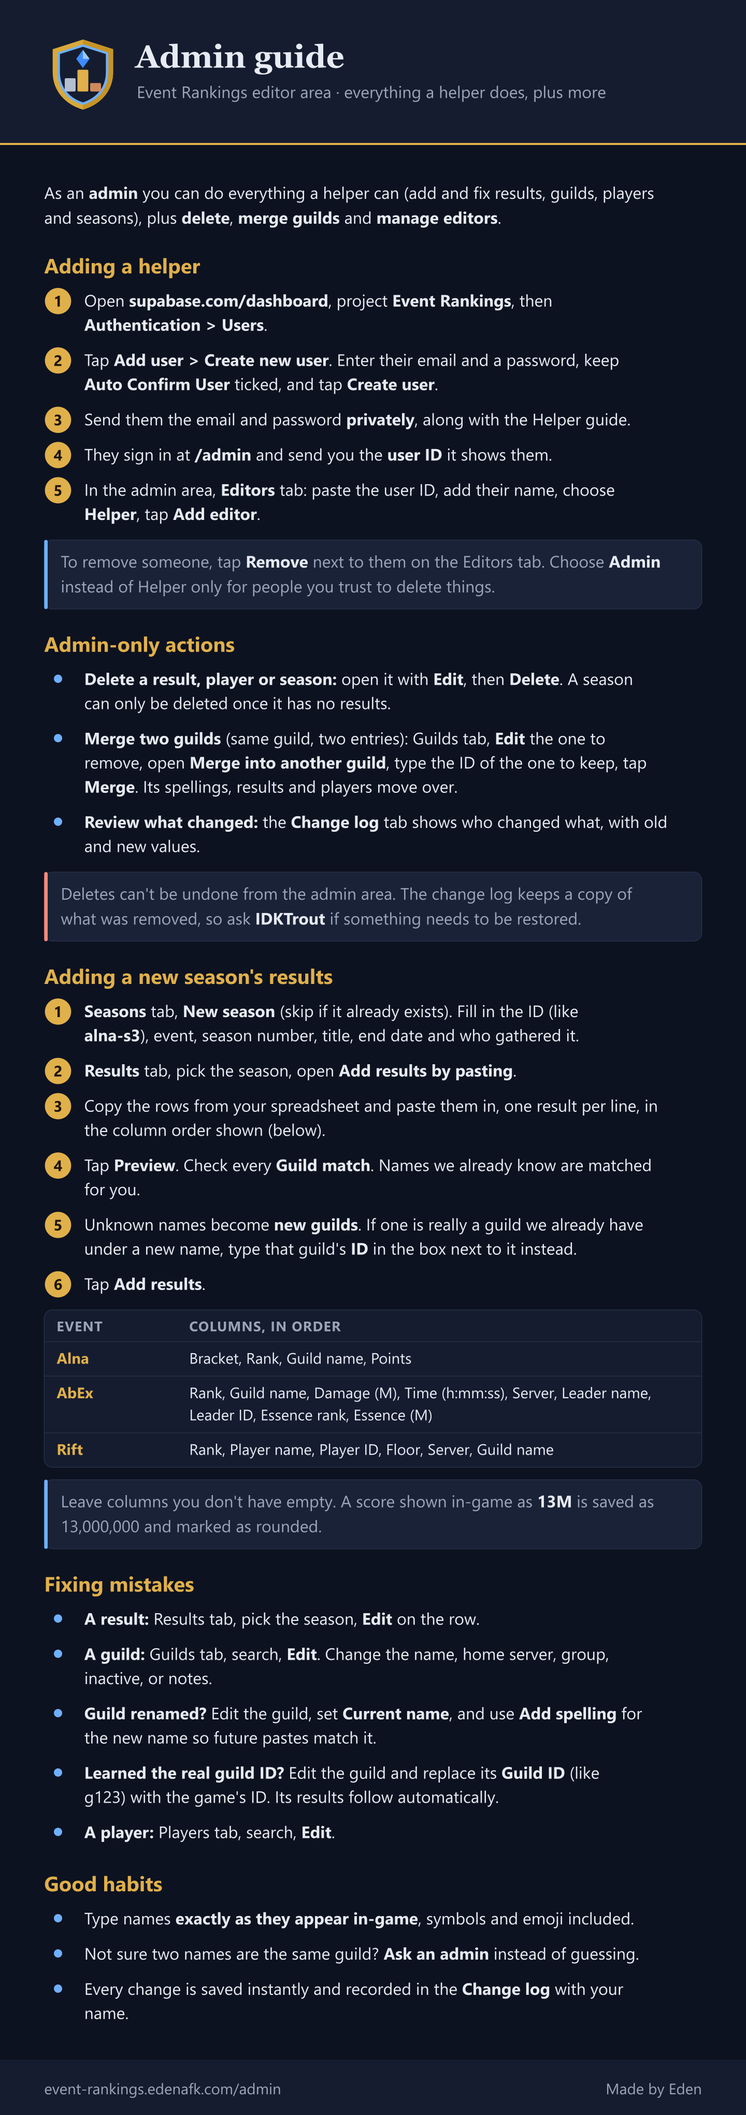
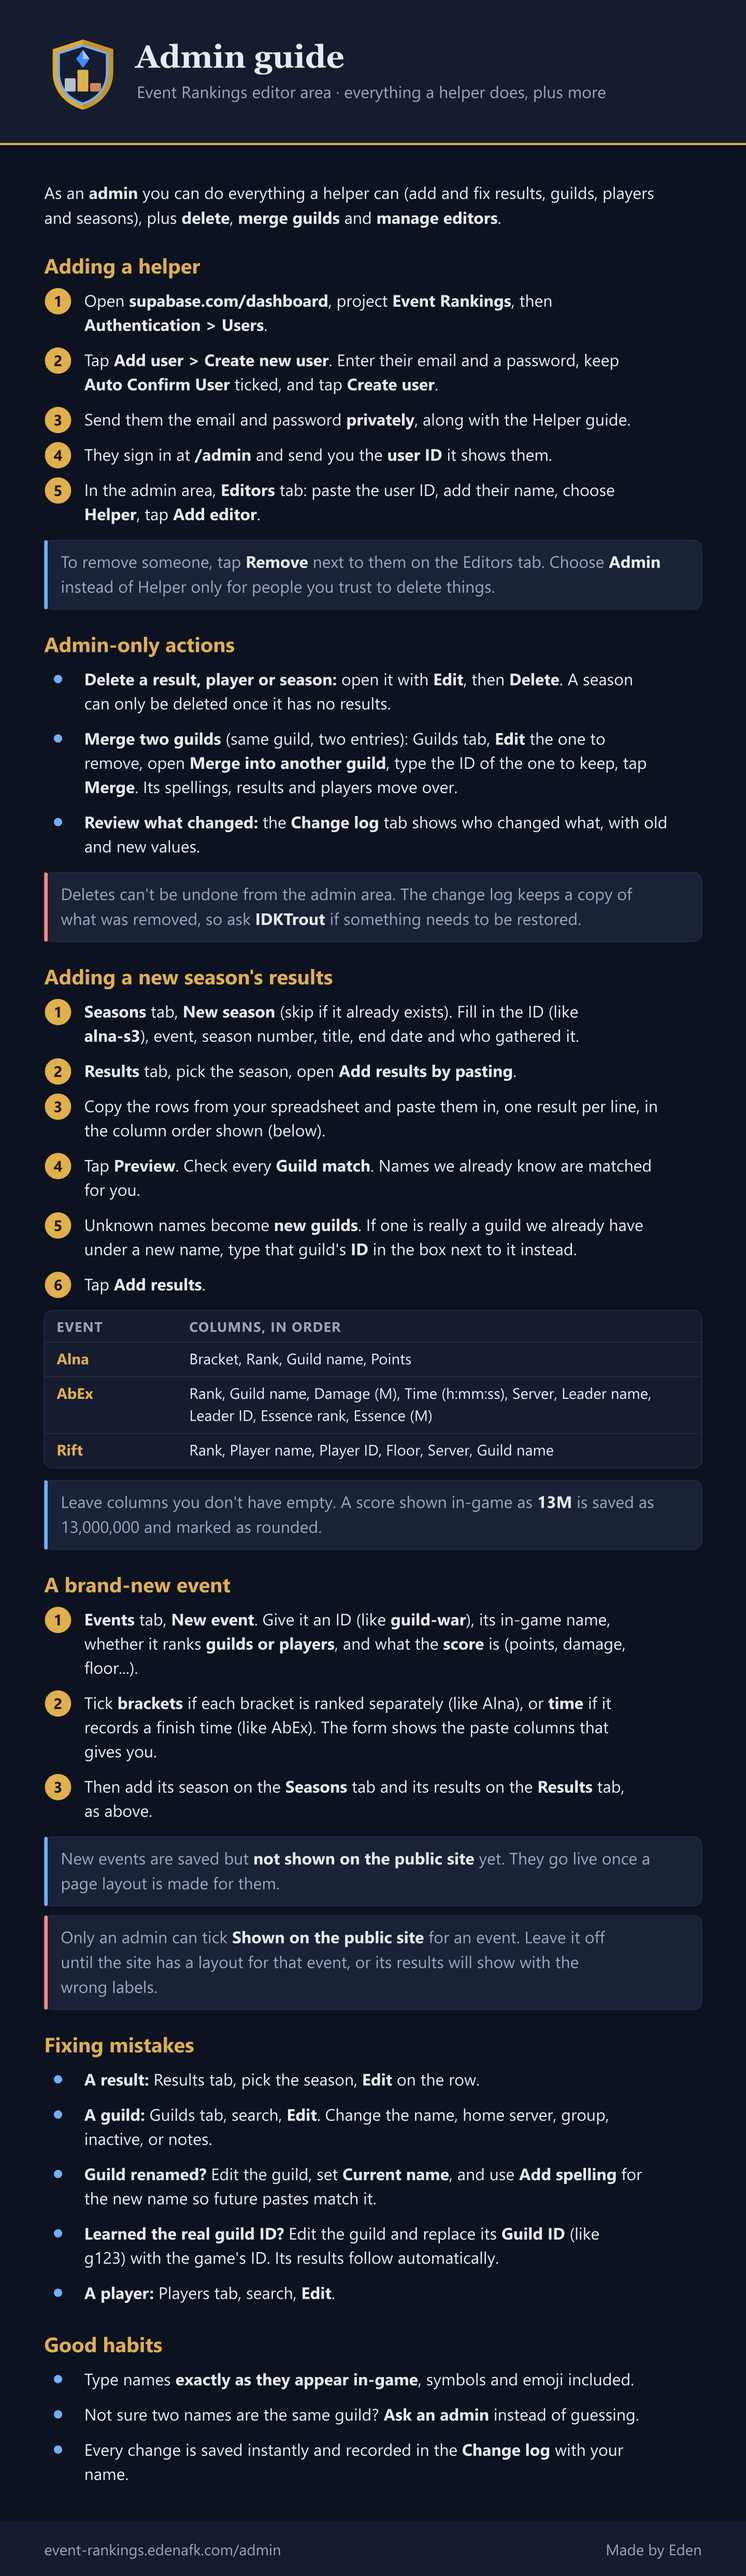
Add an Events tab to the admin; keep new events off the site until they have a layout

Changed region(s): [[0.0312, 0.0, 0.875, 0.964], [0.7188, 0.7463, 0.7812, 0.7774]]

diff --git a/src/admin/app.ts b/src/admin/app.ts
@@ -126,6 +126,7 @@ const TABS: Tab[] = [
   { id: 'guilds', label: 'Guilds', render: guildsTab },
   { id: 'players', label: 'Players', render: playersTab },
   { id: 'seasons', label: 'Seasons', render: seasonsTab },
+  { id: 'events', label: 'Events', render: eventsTab },
   { id: 'log', label: 'Change log', render: logTab },
   { id: 'editors', label: 'Editors', render: editorsTab, adminOnly: true },
 ];
@@ -514,7 +515,8 @@ function seasonsTab(panel: HTMLElement) {
 function editSeason(s: Season | null, redraw: () => void) {
   const nextOrder = Math.max(0, ...seasons.map((x) => x.sort_order)) + 1;
   const f = {
-    id: text(s?.id ?? '', { placeholder: 'like alna-s3' }), event: select(events.map((e) => [e.id, e.name]), s?.event_id ?? events[0]?.id ?? ''),
+    id: text(s?.id ?? '', { placeholder: 'like alna-s3' }),
+    event: select(events.map((e) => [e.id, e.show_on_site ? e.name : `${e.name} (not on site yet)`]), s?.event_id ?? events[0]?.id ?? ''),
     number: num(s?.season_number), title: text(s?.title ?? ''), end: h('input', { type: 'date', value: s?.end_date ?? '' }),
     order: num(s?.sort_order ?? nextOrder), max: num(s?.max_score), by: text(s?.compiled_by ?? ''), thanks: text(s?.thanks ?? ''),
     url: text(s?.source_url ?? ''), notes: area(s?.notes, { rows: 3 }),
@@ -542,6 +544,77 @@ function editSeason(s: Season | null, redraw: () => void) {
   del?.addEventListener('click', async () => {
     if (!confirm(`Delete season ${s!.id}? Only works once it has no results.`)) return;
     try { check(await sb.from('seasons').delete().eq('id', s!.id)); await loadAll(); dlg.close(); redraw(); } catch (e) { st.err(e); }
+  });
+}
+
+// ------------------------------------------------------------------ events
+
+const layoutOf = (e: Pick<EventRow, 'ranks' | 'has_brackets' | 'has_time'>) =>
+  e.has_brackets ? 'Bracket, Rank, Name, Score'
+    : e.ranks === 'player' ? 'Rank, Player name, Player ID, Score, Server, Guild name'
+    : e.has_time ? 'Rank, Guild name, Score, Time, Server, Leader name, Leader ID, Essence rank, Essence (M)'
+    : 'Rank, Guild name, Score, Server';
+
+function eventsTab(panel: HTMLElement) {
+  const draw = () => {
+    const count = (id: string) => seasons.filter((s) => s.event_id === id).length;
+    clear(panel,
+      h('p', { class: 'muted small' }, 'Each event describes what its rankings measure. New events can be filled in here right away; they stay off the public site until a page layout is made for them.'),
+      h('div', { class: 'row' }, h('button', { type: 'button', class: 'btn', onclick: () => editEvent(null, draw) }, 'New event')),
+      h('div', { class: 'table-wrap' }, h('table', { class: 'rank' },
+        h('thead', {}, h('tr', {}, h('th', {}, 'Event'), h('th', {}, 'Ranks'), h('th', {}, 'Score'), h('th', {}, 'Brackets'), h('th', {}, 'Time'), h('th', {}, 'Seasons'), h('th', {}, 'On site'), h('th', {}, ''))),
+        h('tbody', {}, [...events].sort((a, b) => a.name.localeCompare(b.name)).map((e) => h('tr', {},
+          h('td', {}, e.name, h('span', { class: 'listed' }, e.id)), h('td', {}, e.ranks === 'player' ? 'Players' : 'Guilds'),
+          h('td', {}, e.score_label), h('td', {}, e.has_brackets ? 'Yes' : ''), h('td', {}, e.has_time ? 'Yes' : ''),
+          h('td', {}, count(e.id)), h('td', {}, e.show_on_site ? 'Yes' : h('span', { class: 'muted' }, 'Not yet')),
+          h('td', {}, h('button', { type: 'button', class: 'btn small', onclick: () => editEvent(e, draw) }, 'Edit'))))))));
+  };
+  draw();
+}
+
+function editEvent(e: EventRow | null, redraw: () => void) {
+  const f = {
+    id: text(e?.id ?? '', { placeholder: 'like guild-war' }), name: text(e?.name ?? ''),
+    ranks: select([['guild', 'Guilds'], ['player', 'Players']], e?.ranks ?? 'guild'),
+    score: text(e?.score_label ?? '', { placeholder: 'like Points, Damage (M), Floor' }),
+    brackets: box(e?.has_brackets ?? false), time: box(e?.has_time ?? false), notes: area(e?.notes, { rows: 2 }),
+    site: box(e?.show_on_site ?? false, { disabled: !isAdmin() }),
+  };
+  const layout = h('p', { class: 'hint' });
+  const showLayout = () => { layout.textContent = `Paste columns for its results: ${layoutOf({ ranks: f.ranks.value as 'guild' | 'player', has_brackets: f.brackets.checked, has_time: f.time.checked })}`; };
+  for (const c of [f.ranks, f.brackets, f.time]) c.addEventListener('change', showLayout);
+  showLayout();
+  const seasonCount = e ? seasons.filter((s) => s.event_id === e.id).length : 0;
+  const del = e && isAdmin() ? h('button', { type: 'button', class: 'btn danger' }, 'Delete') : null;
+  const { dlg, st } = dialog(e ? `Edit event: ${e.name}` : 'New event', [
+    h('div', { class: 'grid' }, field('Event ID', f.id, e && seasonCount ? 'Changing it updates its seasons too.' : 'Short, lowercase, no spaces.'), field('Name', f.name, 'As shown in the game.')),
+    h('div', { class: 'grid' }, field('Ranks', f.ranks, 'Who the ranking lists.'), field('Score is', f.score, 'What the number means.')),
+    h('label', { class: 'inline' }, f.brackets, ' Played in brackets (each bracket ranked separately, like Alna)'),
+    h('label', { class: 'inline' }, f.time, ' Records a finish or last-attack time (like AbEx)'),
+    layout,
+    field('Notes', f.notes, 'How the event works, how it is scored, anything worth remembering.'),
+    h('label', { class: 'inline' }, f.site, ' Shown on the public site'),
+    h('p', { class: 'hint' }, isAdmin()
+      ? 'Leave this off for new events: the site only has page layouts for AbEx, Temporal Rift and Alna so far. Ask for a layout first.'
+      : 'Only an admin can change this.'),
+  ], async () => {
+    const id = f.id.value.trim().toLowerCase();
+    const name = f.name.value.trim();
+    if (!/^[a-z0-9][a-z0-9-]*$/.test(id)) throw new Error('The event ID needs lowercase letters, numbers or dashes, like guild-war.');
+    if (!name || !f.score.value.trim()) throw new Error('Fill in the name and what the score is.');
+    const row = {
+      id, name, ranks: f.ranks.value, score_label: f.score.value.trim(), has_brackets: f.brackets.checked, has_time: f.time.checked,
+      notes: blank(f.notes.value), ...(isAdmin() ? { show_on_site: f.site.checked } : {}),
+    };
+    if (e) check(await sb.from('events').update(row).eq('id', e.id));
+    else check(await sb.from('events').insert(row));
+    await loadAll();
+    redraw();
+    return e ? 'Saved.' : 'Event added. Now add its first season on the Seasons tab.';
+  }, del ? [del] : []);
+  del?.addEventListener('click', async () => {
+    if (!confirm(`Delete the event "${e!.name}"? Only works once it has no seasons.`)) return;
+    try { check(await sb.from('events').delete().eq('id', e!.id)); await loadAll(); dlg.close(); redraw(); } catch (err) { st.err(err); }
   });
 }
 

diff --git a/src/admin/db.ts b/src/admin/db.ts
@@ -9,7 +9,10 @@ export const SUPABASE_KEY = 'sb_publishable_rBlmsD2-G_ece6fAXDL7aQ_0oa-iqX-';
 export const sb = createClient(SUPABASE_URL, SUPABASE_KEY);
 
 export interface Group { id: string; name: string; short_name: string; color: string; notes: string | null }
-export interface EventRow { id: string; name: string; ranks: 'guild' | 'player'; score_label: string; has_brackets: boolean; has_time: boolean }
+export interface EventRow {
+  id: string; name: string; ranks: 'guild' | 'player'; score_label: string; has_brackets: boolean; has_time: boolean;
+  notes: string | null; show_on_site: boolean;
+}
 export interface Season {
   id: string; event_id: string; season_number: number | null; title: string; end_date: string | null;
   sort_order: number; max_score: number | null; compiled_by: string | null; thanks: string | null;

diff --git a/README.md b/README.md
@@ -10,7 +10,7 @@ Since 2026-11-12 the data lives in a **Supabase database** (project *Event Ranki
 
 | Table | One row per | Notes |
 |---|---|---|
-| `events` | event (AbEx, AbEx Test, Temporal Rift, Alna) | whether it ranks guilds or players, its score label, and whether it has brackets or times |
+| `events` | event (AbEx, AbEx Test, Temporal Rift, Alna) | whether it ranks guilds or players, its score label, whether it has brackets or times, and `show_on_site`. New events (added on the admin's Events tab) stay off the site until it has a page layout for them; only admins can switch that on |
 | `seasons` | ranking season | `sort_order` (higher = more recent), `end_date`, `max_score` (AbEx max damage), `compiled_by` and `thanks` for credits |
 | `results` | one line of one ranking, for every event | `listed_name` exactly as in the image; `guild_id` and/or `player_id`; `bracket`, `rank`, `score`, `score_rounded` (like 13M), `time_seconds`, `server`; event-specific fields such as leader and essence in `extra` |
 | `guilds` | guild | `id` is the game's guild ID (or `g###` until known); `home_server`, `group_id`, `inactive` |
